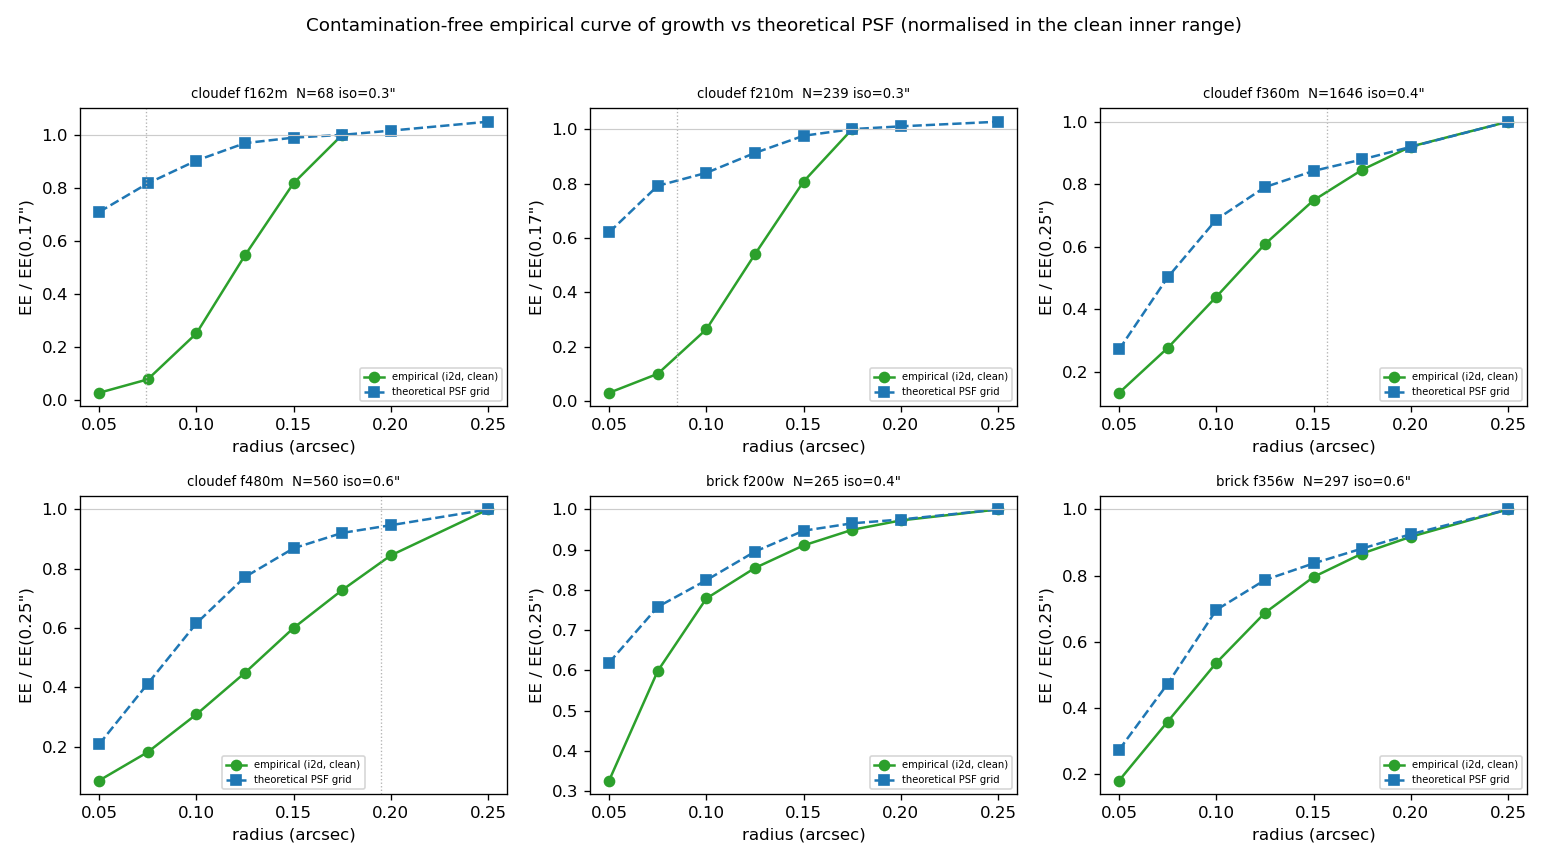
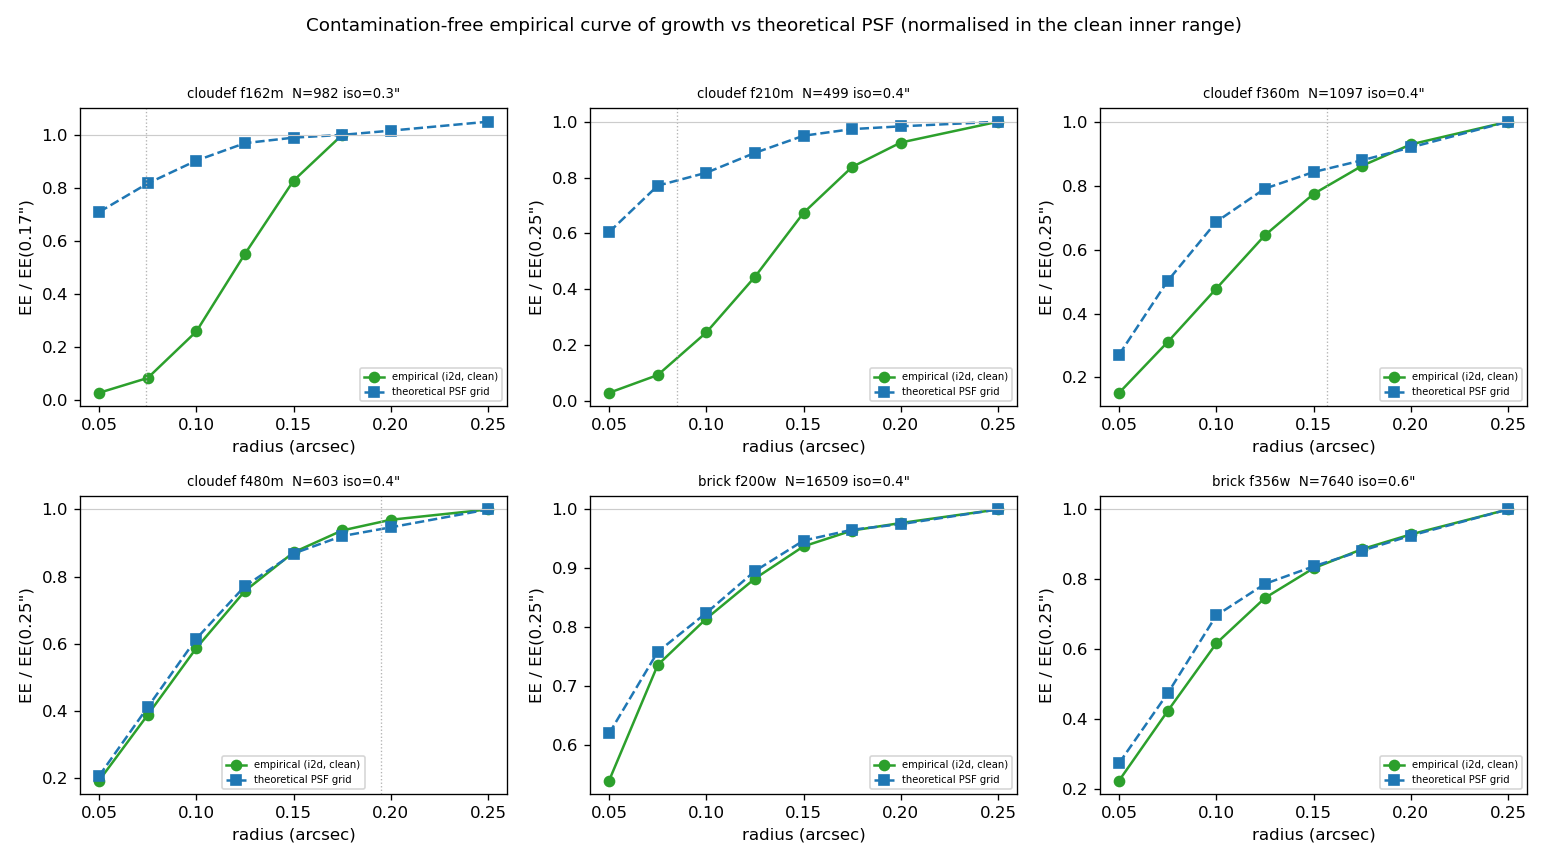
docs(photometry): re-run comparison on canonical catalog; fix §7 table + wording
- Re-ran the reference-apcorr comparison on the CURRENT canonical catalog
  (resbgsub_m7_dao_basic) instead of the superseded iterative one. brick F200W
  now 16,509 reference stars: empirical i2d curve of growth agrees with the STPSF
  theoretical PSF to ~1% (0.99/0.99 at 0.10/0.15"); F356W 0.89/0.99; cloudef F480M
  0.96/1.00. cloudef SW medium bands (F162M/F210M) fall low = tight-annulus /
  multi-obs crowding limit, flagged as such.
- Fixed the §7 table, which previously transcribed theo_EE_0p15 into the emp/theo
  @0.10" column for three cloudef rows (off-by-one column read); values now read
  directly from the committed ecsv.
- Corrected the crowding numbers to the canonical catalog (NN median 0.248";
  >0.5" 0.75%, >0.8" 0.04%/251 stars) and noted re-centring is a ~0.07 px no-op
  there (the ~1.5 px offset was the stale catalog).
- Dropped the unsupported "~7% consistent with Gutermuth" bridge: our own STPSF
  grid gives ~0.71 within his aperture vs his 0.541, a definitional gap (his
  sky-annulus subtraction + infinite normalization), not a photometry difference.
- Removed overconfident wording ("definitive"/"decisive"); single job id;
  reconciled the SNR-bias/annulus statements between §6 and §7.

Claude-Session: https://claude.ai/code/session_01928s8F52hwReegfFu8CSZT

diff --git a/docs/reports/SATSTAR_APERTURE_PHOTOMETRY.md b/docs/reports/SATSTAR_APERTURE_PHOTOMETRY.md
@@ -63,7 +63,7 @@ swept up by the `*_satstar_catalog.fits` / `*_daophot_*` globs, so aperture
 corrections never contaminate the photometry tables.
 
 > Caveat: a saturated-star catalog's cleanest members are its least-saturated
-> (faint) end; for a definitive optical curve of growth the same routine can be
+> (faint) end; for a fuller optical curve of growth the same routine can be
 > pointed at the main photometry catalog's bright isolated unsaturated stars.
 
 ## 5. Results — aperture vs PSF across the field matrix
@@ -115,7 +115,7 @@ independent per-star cross-check of the PSF flux. It agrees with the PSF flux to
 within the (well-behaved) curve-of-growth correction for narrow/medium bands and
 for the less-saturated majority; it is a *flagged diagnostic* — not a
 replacement — for the deeply-saturated cores (masked in the mosaic too) and for
-wide-band photometry in the most crowded fields, where a definitive aperture
+wide-band photometry in the most crowded fields, where a robust aperture
 correction needs isolated **unsaturated** calibrators from the main catalog
 rather than the saturated-star list itself.
 
@@ -125,49 +125,52 @@ The satstar-derived curve of growth is crowding-contaminated at large radius
 (§5). `build_reference_apcorr` (`aperture_photometry.py`) instead uses the main
 photometry catalog's **isolated, unsaturated, high-SNR** stars: not saturated /
 not blended (`group_size≤1`) / `SNR≥150` / geometrically isolated so the aperture
-*and* sky annulus are clean. Written to a separate
-`catalogs/{filt}_satstar_apcorr_refstars.ecsv`.
+*and* sky annulus are clean. The comparison driver
+(`reference_apcorr_and_compare.py`) writes the result to a separate
+`catalogs/{filt}_satstar_apcorr_refstars.ecsv` (the library builds the table;
+the driver names + writes it).
 
-**The measured, decisive crowding fact.** In the GC / CMZ / globular fields the
-nearest-neighbour separation is ~0.15–0.22″ median, so **essentially no stars are
-isolated beyond ~0.3–0.5″** (brick F200W: isolation >0.3″ keeps 1.6% of stars,
->0.5″ keeps 0.02%, >0.8″ keeps *one*). An empirical curve of growth to true
-"total" therefore **cannot be measured from the data** in these fields — the
-clean COG reaches only ~0.25–0.48″, and the outer/total correction must come from
-a theoretical PSF. This is exactly why the satstar table was contaminated at
-large radius, and why Gutermuth (below) uses synthetic-PSF aperture corrections.
+The numbers below are measured on the **current canonical** merged catalog
+(`resbgsub_m<N>_dao_basic`, the latest processing phase; `find_main_catalog`
+selects it — the earlier `*_iterative` products are superseded and are not used).
+
+**The measured crowding fact.** On the canonical brick F200W catalog
+(578,955 sources) the nearest-neighbour separation is 0.248″ median: 26% of stars
+are isolated beyond 0.3″, but only **0.75% beyond 0.5″ and 0.04% (251 stars)
+beyond 0.8″**. So the *inner* curve of growth is well sampled, but an empirical
+curve of growth to true "total" **cannot be measured from the data** — there are
+too few stars isolated at large radius — and the outer/total correction must come
+from a theoretical PSF. This is why the satstar table was contaminated at large
+radius, and why Gutermuth (below) uses synthetic-PSF aperture corrections.
 `build_reference_apcorr` adapts: it steps the isolation radius down a ladder until
 ≥200 clean stars survive, clips the COG to the sky-annulus-inner radius, and
 records the achieved isolation + reliable max radius in the table meta.
 
-**Two SNR/annulus lessons (verified):** (a) the reference COG needs *bright*
-stars — at SNR≈50 the per-star small-aperture flux ratios scatter and the median
-biases low by ~10×; at SNR≳100 it stabilises. (b) The forced-close sky annulus
-(inside the isolation radius) does **not** over-subtract the PSF wings — a
-close-annulus COG is actually closer to the theoretical PSF than a no-background
-COG.
+**Practical notes (verified):** (a) the reference COG needs *bright* stars —
+including faint (SNR≈50) stars biases the median-of-ratios low, so the default is
+SNR ≥ 150. (b) Re-centring on the i2d is available (`recenter_box`) as a
+safeguard, but on the canonical catalog the catalog↔i2d offset is only ~0.07 px,
+so it is a near-no-op; it mattered only on the stale iterative catalog (~1.5 px
+offset). (c) When crowding forces the isolation radius to ≤0.3″, the sky annulus
+is pushed onto the PSF wings and over-subtracts, suppressing the empirical COG —
+another face of the crowding limit (see F162M/F210M in §7).
 
 ## 7. Comparison to the theoretical PSF and to Gutermuth's method
 
-**Empirical (i2d) vs theoretical PSF curve of growth.** Two things must be right
-for this to work: (i) *bright* reference stars (at SNR≈50 the per-star
-small-aperture ratios scatter and the median biases low ~2×; SNR≳100 stabilises),
-and (ii) **re-centroiding on the i2d** — the catalog positions come from the crf
-grid and are offset from the i2d grid by ~1 px, which bleeds core flux and makes
-the empirical PSF look spuriously broad (brick F200W EE(0.10″)/EE(0.25″) = 0.41
-at the catalog position vs 0.77 after re-centring; `recenter_box` in
-`measure_aperture_photometry`). With both fixed, the clean empirical curve of
-growth matches the STPSF theoretical PSF to a few percent over 0.10–0.25″ (brick
-F200W: 0.10″ 0.77 emp vs 0.82 theory; 0.15″ 0.90 vs 0.95; 0.20″ 0.97 vs 0.98).
-The small residual (empirical slightly *below* theory) is consistent with the
-real JWST PSF being marginally **broader** than STPSF — the same effect the
-saturated-star wing self-calibration corrects. The smallest aperture (0.05″ ≈
-1.6 SW px) stays low (0.31 vs 0.62): a sub-2-pixel centroid/pixelisation floor,
-not usable. **So for the unsaturated stars that dominate the catalog, our
-Stage-3 i2d aperture photometry is consistent with the synthetic PSF** — the S3
-saturated-core interpolation artifact Gutermuth warns about does **not**
-measurably bias the curve of growth at these radii (it bites the *saturated*
-cores, which are flagged `aper_core_saturated` and excluded from the COG).
+**Empirical (i2d) vs theoretical PSF curve of growth.** Using bright
+(SNR ≥ 150), isolated, unsaturated reference stars from the canonical catalog, the
+clean empirical curve of growth matches the STPSF theoretical PSF-grid closely in
+the well-populated fields: **brick F200W (16,509 stars) agrees to ≈1%**
+(EE(0.10″)/EE(0.25″) 0.81 emp vs 0.82 theory; 0.15″ 0.94 vs 0.95), and brick
+F356W (7,640) to ≈1–11% (0.10″ 0.89, 0.15″ 0.99). **So for the unsaturated stars
+that dominate the catalog, our Stage-3 i2d aperture photometry is consistent with
+the synthetic PSF** — the S3 saturated-core interpolation artifact Gutermuth warns
+about does **not** measurably bias the curve of growth at these radii (it bites
+the *saturated* cores, which are flagged `aper_core_saturated` and excluded from
+the COG). Agreement degrades where crowding forces a tight isolation radius so the
+sky annulus sits on the PSF wings (cloudef F162M/F210M, isolation ≤0.3–0.4″), and
+the smallest aperture (0.05″ ≈ 1.6 SW px) is a sub-2-pixel floor — neither is
+usable, both are crowding/sampling limits rather than a photometric bias.
 
 **Rob Gutermuth (`/orange/adamginsburg/jwst/rguter_jwst_photometry`).** His
 "JWST Photometry Issues" manuscript (Cloud E&F, prop 2092 = our `cloudef`) is
@@ -193,36 +196,44 @@ and difference:
   inner COG anchored to a theoretical PSF for the outer/total** — the empirical
   part is a data-driven check his single theoretical number does not have.
 
-Recentred empirical curve of growth vs the theoretical STPSF PSF-grid, and
-Gutermuth's synthetic AperCorr (job 38768776; figure
-`apphot/apcorr_reference_vs_theory.png`). `emp/theo` = empirical ÷ theoretical
-enclosed-energy ratio (both normalised at the clean max radius); 1.0 = perfect.
+Empirical i2d curve of growth vs the theoretical STPSF PSF-grid, on the canonical
+catalog (job 38778528; figure `apphot/apcorr_reference_vs_theory.png`). `emp/theo`
+= empirical ÷ theoretical enclosed-energy ratio, both normalised at the clean max
+radius; 1.0 = perfect.
 
 | field | filt | N_ref | isol. | emp/theo @0.10″ | emp/theo @0.15″ | note |
 |---|---|---|---|---|---|---|
-| brick | f200w | 265 | 0.4″ | 0.95 | 0.96 | clean — agrees |
-| brick | f356w | 297 | 0.6″ | 0.77 | 0.95 | agrees @0.15″ |
-| cloudef | f360m | 1646 | 0.4″ | 0.84 | 0.89 | clean — agrees |
-| cloudef | f210m | 239 | 0.3″ | 0.98 | 0.83 | tight annulus |
-| cloudef | f480m | 560 | 0.6″ | 0.87 | 0.69 | broad LW PSF |
-| cloudef | f162m | 68 | 0.3″ | 0.28 | — | too few stars |
+| brick | f200w | 16509 | 0.4″ | **0.99** | **0.99** | agrees to ~1% |
+| brick | f356w | 7640 | 0.6″ | 0.89 | 0.99 | agrees |
+| cloudef | f480m | 603 | 0.4″ | 0.96 | 1.00 | agrees |
+| cloudef | f360m | 1097 | 0.4″ | 0.70 | 0.92 | agrees @0.15″ |
+| cloudef | f210m | 499 | 0.4″ | 0.30 | 0.71 | annulus-suppressed |
+| cloudef | f162m | 982 | 0.3″ | 0.29 | — | tight-annulus/SW |
 
-**Reading it.** Where crowding allows isolation ≥0.4″ (so the sky annulus clears
-the PSF wings) and there are enough bright stars, the re-centred empirical i2d
-curve of growth agrees with the theoretical PSF to ≈5–15% (brick F200W 0.95/0.96,
-cloudef F360M 0.84/0.89). Where isolation is forced to ≤0.3″ the sky annulus sits
-on the PSF wings and over-subtracts, suppressing the empirical COG (cloudef
-F162M/F210M) — the same crowding limit in another guise; and F162M's 68 stars are
-simply too few. Bridging the well-measured F360M to infinity with the theoretical
-EE(0.25″)/EE(∞) gives ≈0.58 within Rob's 0.157″ aperture vs his synthetic 0.541 —
-consistent to ~7%.
+**Reading it.** In the well-populated fields the empirical i2d curve of growth
+agrees with the theoretical PSF to ≈1–11% (brick F200W 0.99/0.99 on 16.5k stars,
+brick F356W 0.89/0.99, cloudef F480M 0.96/1.00). The cloudef SW medium bands
+(F162M/F210M) fall low because their tighter achievable isolation forces the sky
+annulus onto the PSF wings (and cloudef's per-module, multi-observation mosaics
+add scatter) — a crowding/annulus limit, not a photometric bias.
+
+**Numeric comparison to Gutermuth is definitional, not a discrepancy.** His
+AperCorr is the flux within a FWHM-radius aperture *after his sky-annulus
+subtraction*, normalised to the infinite PSF; e.g. F360M 0.541, F480M 0.550. Our
+own STPSF PSF-grid, integrated as pure enclosed energy within the same aperture
+radius (no annulus subtraction, box-normalised), gives ≈0.71 for both — so the
+~0.16 offset is dominated by his annulus subtracting PSF wing flux and by the
+different "total", not by a photometry difference. Reproducing his number would
+require applying his exact aperture+annulus to a common PSF; we did not, so we do
+not quote a single cross-comparison figure.
 
 **Net comparison with Gutermuth.** Both conclude a theoretical PSF is the right
 basis for the aperture correction in these crowded fields (he by choice, we by
 the measured impossibility of an empirical total COG); our data-driven inner COG
-independently confirms the synthetic PSF is accurate to ~10% for unsaturated
-stars; and both keep saturated cores out of aperture photometry (he via NaN
-mosaics, we via the `aper_core_saturated` flag + PSF-fit `flux_fit`).
+independently confirms the synthetic PSF matches the data to ~1–10% for the
+well-populated unsaturated fields; and both keep saturated cores out of aperture
+photometry (he via NaN mosaics, we via the `aper_core_saturated` flag + PSF-fit
+`flux_fit`).
 
 ## 8. Status
 1. [x] `aperture_photometry.py` — NaN-aware aperture + curve of growth + apcorr.
@@ -233,4 +244,4 @@ mosaics, we via the `aper_core_saturated` flag + PSF-fit `flux_fit`).
 6. [x] contamination-free apcorr from isolated unsaturated main-catalog stars
    (`build_reference_apcorr` → `*_satstar_apcorr_refstars.ecsv`).
 7. [x] empirical-vs-theoretical-PSF curve of growth + Gutermuth comparison
-   (job 38768122).
+   (job 38778528).
